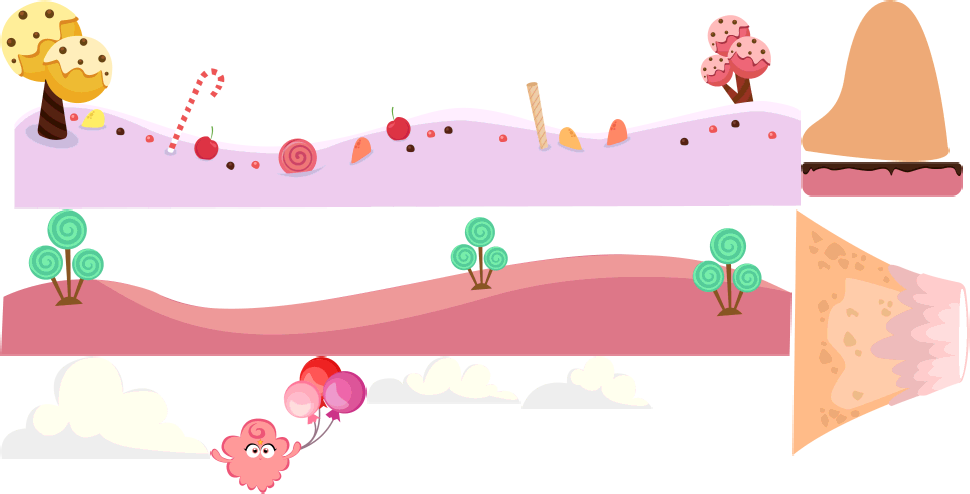
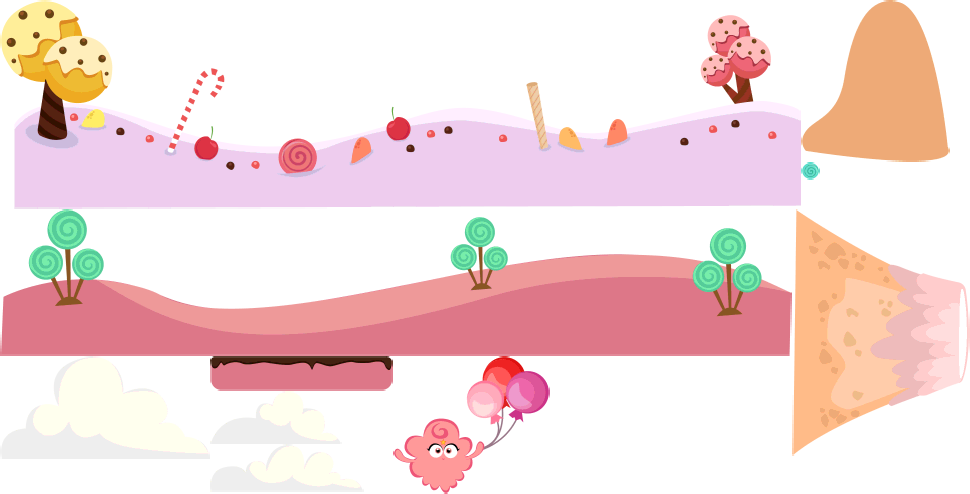
Order candy theme changes

Changed region(s): [[0.2165, 0.6984, 0.4021, 1.0], [0.4021, 0.6984, 0.5876, 1.0], [0.8041, 0.3036, 1.0, 0.4251]]

diff --git a/goa/frameworks/runtime-src/Classes/mini_games/Order.cpp b/goa/frameworks/runtime-src/Classes/mini_games/Order.cpp
@@ -101,7 +101,7 @@ bool Order::init()
 			{ "otherCharacter", "character2" },
 			{ "child3", "cart1" },
 			{ "child4", "cart2" },
-			{ "png", "shoping/Pineapple.png" }
+			{ "png", "ordercandy/candy.png" }
 		} },
 	};
 
